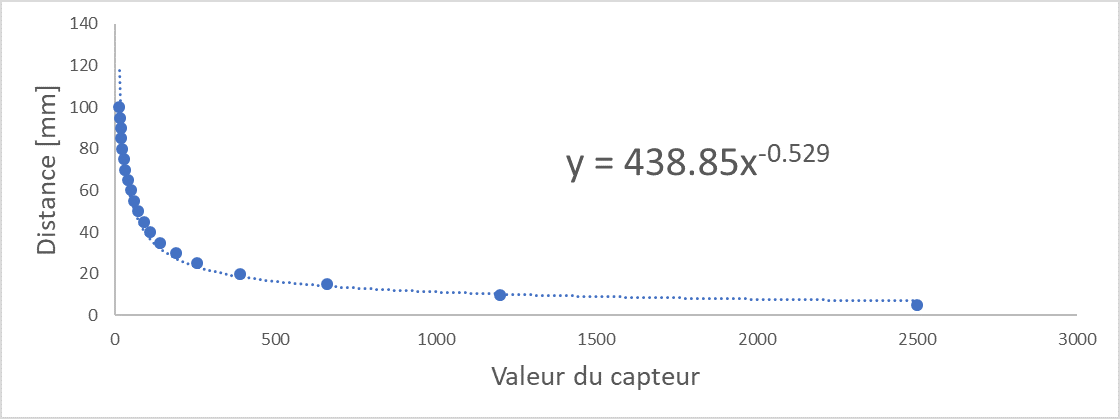
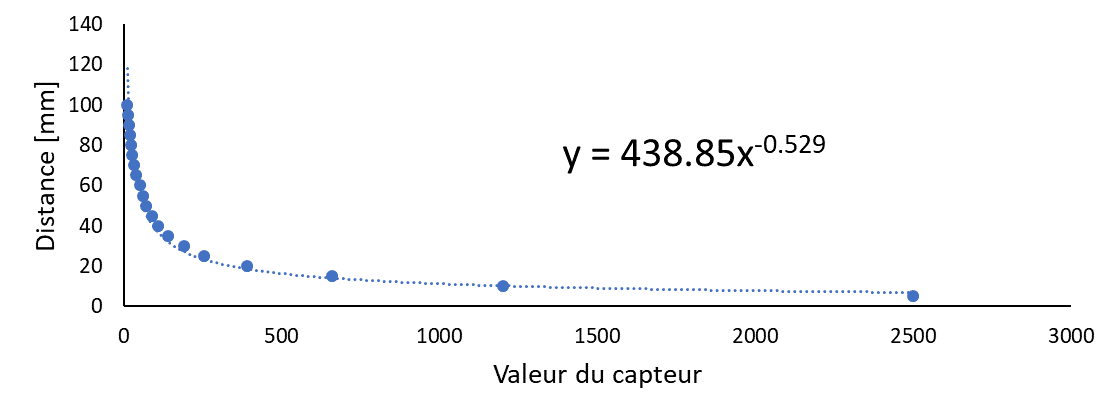
Add files via upload

diff --git a/navigation.c b/navigation.c
@@ -1,3 +1,8 @@
+/*
+ * Navigation module
+ * Author: Iacopo Sprenger & Timon Binder
+ */
+
 #include "ch.h"
 #include "hal.h"
 #include <main.h>
@@ -8,7 +13,7 @@
 #include <leds.h>
 #include <motors.h>
 
-#include <pickup_detector.h>
+//#include <pickup_detector.h>
 #include <audio_processing.h>
 #include <image_processing.h>
 #include <proximity_processing.h>
@@ -57,7 +62,7 @@
 #define SOUND_DIR_FAR		60
 #define SOUND_DIR_FAR_T		2
 #define TARGET_NEAR_TOL		40
-#define STRONG_CHANGE_T		200
+#define STRONG_CHANGE_T		100
 
 #define COLOR_BLUE		0, 0, 128	//ARRIVED
 #define COLOR_GREEN		0, 128, 28	//SOUND SEACH
@@ -688,9 +693,6 @@ void paused(void)
  */
 void execute(void)
 {
-	if(abs(l_l_speed-l_speed)>STRONG_CHANGE_T || abs(l_r_speed-r_speed)>STRONG_CHANGE_T) {
-		strong_movement_expected();
-	}
 	left_motor_set_speed(l_speed);
 	right_motor_set_speed(r_speed);
 	l_l_speed = l_speed;
@@ -724,13 +726,13 @@ static THD_FUNCTION(Navigator, arg)
 	while (1) {
 		time = chVTGetSystemTime();
 
-		if (get_pd_state() == PD_PICKED_UP) {
-			paused();
-			set_body_led(0);
-			continue;
-		} else {
-			set_body_led(1);
-		}
+//		if (get_pd_state() == PD_PICKED_UP) {
+//			paused();
+//			set_body_led(0);
+//			continue;
+//		} else {
+//			set_body_led(1);
+//		}
 
 		if (get_pattern_visible() && (navigation_state == N_SOUND_SEARCH || navigation_state == N_MOVE_FORWARD)) {
 			target_spotted_c++;

diff --git a/main.c b/main.c
@@ -19,7 +19,7 @@
 
 #include <audio_processing.h>
 #include <proximity_processing.h>
-#include <pickup_detector.h>
+//#include <pickup_detector.h>
 #include <image_processing.h>
 #include <navigation.h>
 
@@ -61,7 +61,7 @@ int main(void)
 	po8030_start();
 	motors_init();
 	proximity_start();
-	imu_start();
+	//imu_start();
 	spi_comm_start();
 	serial_start();
 	audio_processing_start();
@@ -71,7 +71,7 @@ int main(void)
 	//modules init
 	proximity_processing_start();
 
-	pickup_detector_start();
+	//pickup_detector_start();
 
 	image_processing_start();
 

diff --git a/proximity_processing.h b/proximity_processing.h
@@ -12,10 +12,23 @@ typedef enum {
 	S_FORWARD_LEFT
 } SENSOR_NAME_t;
 
+/*
+ * @brief		start the proximity processing module
+ */
 void proximity_processing_start(void);
 
+/*
+ * @brief 		get the pointer to the raw results array
+ *
+ * @return 		pointer to the raw results array
+ */
 uint16_t * get_values_ptr(void);
 
+/*
+ * @brief 		get the pointer to the adjusted results array
+ *
+ * @return 		pointer to the adjusted results array
+ */
 uint16_t * get_distances_ptr(void);
 
 #endif

diff --git a/Python/matlab_dist_plot.m b/Python/matlab_dist_plot.m
@@ -1,0 +1,16 @@
+
+grid on
+f = fit(dist.(2), dist.(1),'b*x^-0.5')
+hold on
+plot(dist.(2), dist.(1), '*') 
+plot(f)
+hold off
+xlabel("numero de sample")
+ylabel("angle [rad]")
+xlim([0 2600])
+ylim([0 110])
+
+set(gca,'FontSize',14)
+set(gcf,'position',[20,20,1000,400])
+
+exportgraphics(gcf,'dist.png','Resolution',300)

diff --git a/pickup_detector.c b/pickup_detector.c
@@ -19,8 +19,8 @@
 #define PICKUP_THRESH	6000
 #define PICKUP_THRESH_Z	3000
 #define REST_THRESH	100
-#define PICKUP_THRESHL	8000
-#define PICKUP_THRESL_Z	5000
+#define PICKUP_THRESHL	8500
+#define PICKUP_THRESL_Z	6000
 
 #define INF_INT16 	32767
 #define MAX(a,b)	((a)>(b)?(a):(b))

diff --git a/navigation.h b/navigation.h
@@ -6,7 +6,7 @@ typedef enum {
 	N_SOUND_SEARCH,
 	N_MOVE_FORWARD,
 	N_FOLLOW_WALL,
-	N_PAUSED,
+	N_PAUSED,		//not used anymore
 	N_TARGET_INSIGHT,
 	N_FINAL_APPROACH,
 	N_ARRIVED

diff --git a/image_processing.c b/image_processing.c
@@ -1,3 +1,8 @@
+/*
+ * Audio processing module
+ * Author: Iacopo Sprenger
+ */
+
 #include "ch.h"
 #include "hal.h"
 #include <main.h>
